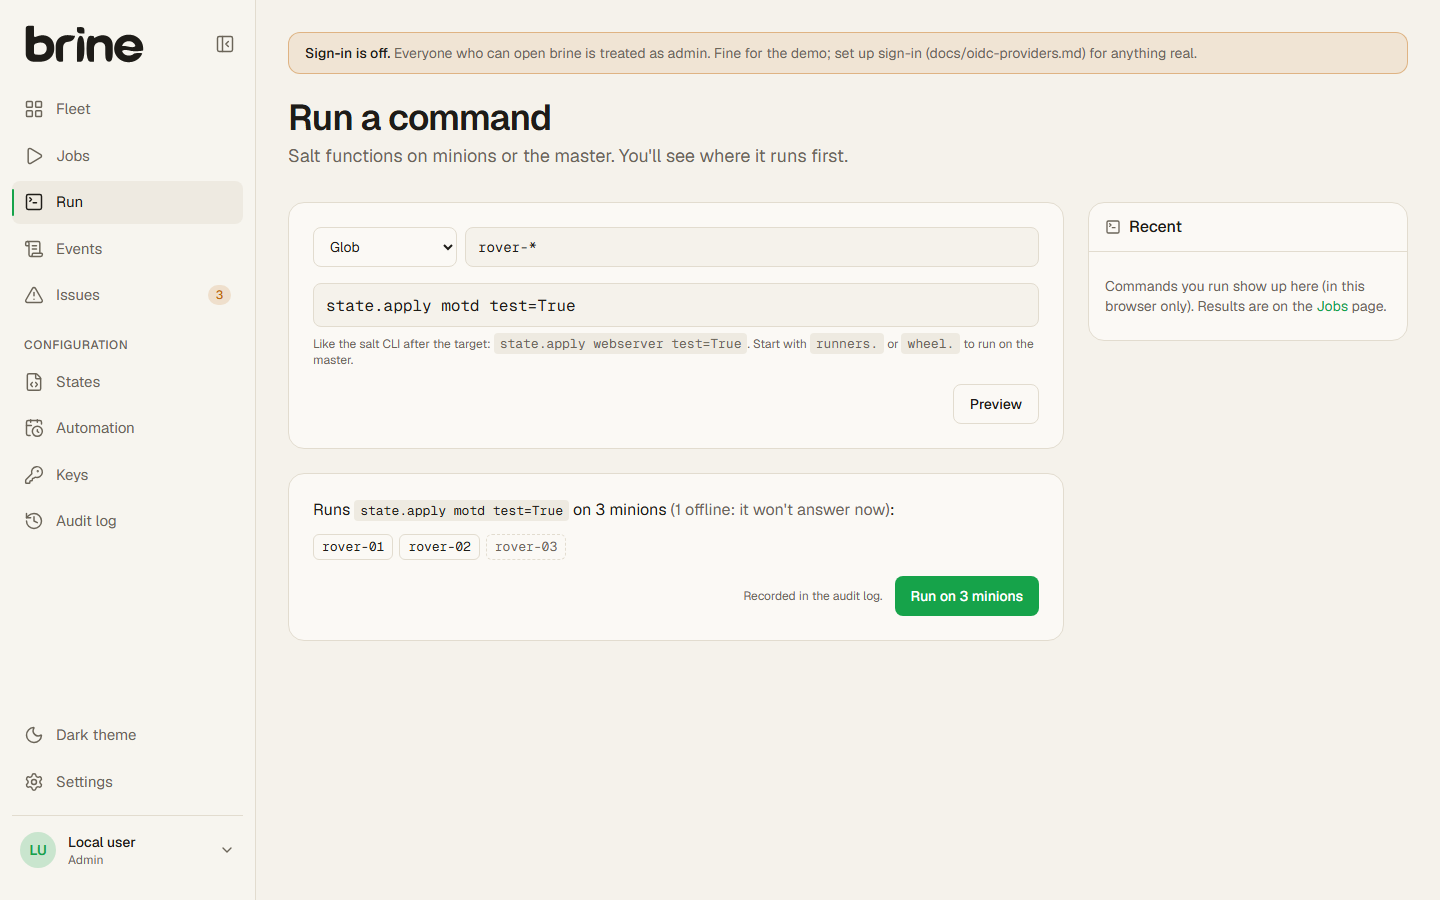
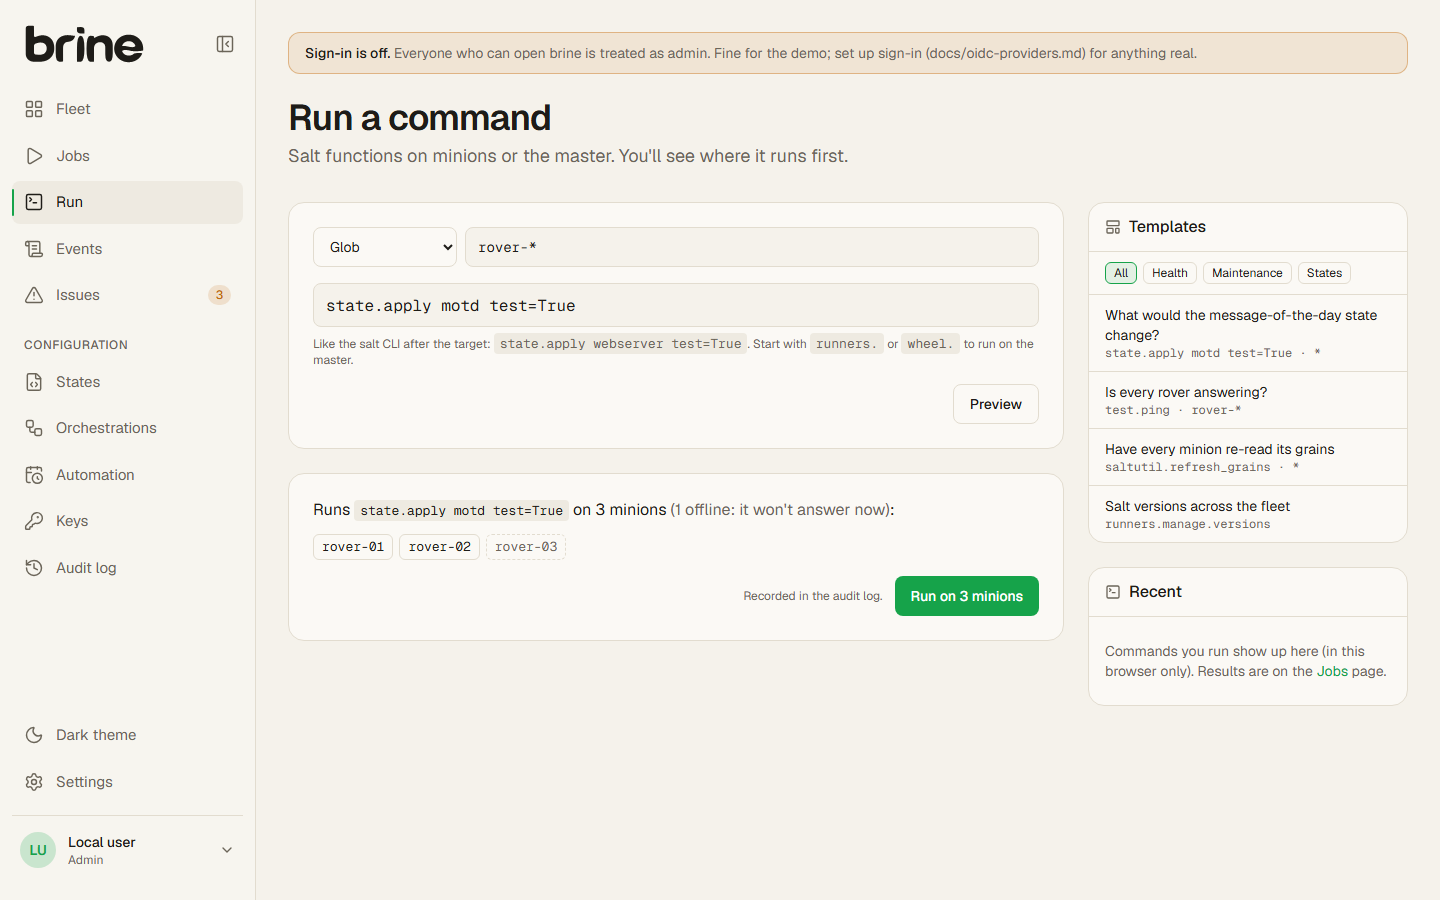
Docs: templates, orchestrations, salt-api's rough edges; screenshots
- README: Orchestrations section and screenshot; templates on the Run page; status.
- ACL guide: state.orchestrate_show_sls (read) and state.orchestrate (run); config.values now
  also yields saltgui_templates. config.example.yaml: a template.
- salt-versions.md: what brine does about expiring sessions, the event stream, and bare 500s,
  and that CI tests each line's latest release.
- Decisions 17 (few requests in flight, safe retries) and 18 (orchestrations belong to the
  person); backlog and SaltGUI parity updated.

diff --git a/README.md b/README.md
@@ -9,7 +9,7 @@
 
 ---
 
-> **Status: early development.** Every SaltGUI view has a brine page, and commands and key management work, all behind OIDC sign-in and roles. Still to come: SaltGUI's templates, orchestrations and job re-run/kill, and packaging (a Docker image and a quickstart). Follow [docs/backlog.md](docs/backlog.md) for progress.
+> **Status: early development.** Every SaltGUI view has a brine page, and commands, templates, orchestrations and key management work, all behind OIDC sign-in and roles. Still to come: job re-run/kill, and packaging (a Docker image and a quickstart). Follow [docs/backlog.md](docs/backlog.md) for progress.
 
 brine plugs into an existing **salt-master + salt-api** and gives your team a clean, fast view of the fleet:
 
@@ -105,7 +105,8 @@ SaltGUI's command box, with a safety catch. Type a target and a command the way 
 itself. brine first shows exactly which minions it reaches, and which of those are offline;
 running is a separate click, and the results land on the job page as they arrive. Who may run
 what is a per-role allowlist in brine's config, every run is in the audit log, and links like
-`/run?target=rover-*&command=test.ping` open already previewed.
+`/run?target=rover-*&command=test.ping` open already previewed. Templates (brine's own, or
+SaltGUI's `saltgui_templates` from the master config, unchanged) fill it in with one click.
 
 <picture>
   <source media="(prefers-color-scheme: dark)" srcset="docs/assets/screenshots/run-dark.png">
@@ -133,6 +134,18 @@ What the master tells each minion to be: which states the top file assigns to wh
 <picture>
   <source media="(prefers-color-scheme: dark)" srcset="docs/assets/screenshots/states-dark.png">
   <img alt="States: motd and dock states with the minions they apply to" src="docs/assets/screenshots/states-light.png">
+</picture>
+
+### Orchestrations
+
+Every orchestration on the master, step by step: what each step does, on which minions, and what
+it waits for. Test and Run go through the Run page, so they're previewed, confirmed and audited
+like any command. The run, and the job each step starts, are recorded under whoever ran it, and
+the orchestration's job page links every step to its minions' results.
+
+<picture>
+  <source media="(prefers-color-scheme: dark)" srcset="docs/assets/screenshots/orchestrations-dark.png">
+  <img alt="Orchestrations: orch.health and orch.rollout with their steps, targets and requisites" src="docs/assets/screenshots/orchestrations-light.png">
 </picture>
 
 ### Automation

diff --git a/docs/salt-versions.md b/docs/salt-versions.md
@@ -2,8 +2,9 @@
 
 **brine aims to work with every Salt release the Salt Project still supports, and proves it in
 CI.** Each push runs the end-to-end test against a real salt-master, salt-api and minions
-installed from the official packages, once per release: currently **3006, 3007 and 3008**. A new
-major release is added when it ships; one is dropped from CI when Salt stops supporting it.
+installed from the official packages, once per release line (its latest release): currently
+**3006, 3007 and 3008**. A new major release is added when it ships; one is dropped from CI
+when Salt stops supporting it.
 
 Salt 3005 and older aren't tested. brine's read-only views use functions that existed back then,
 so they may well work, but those releases no longer get security fixes, and upgrading is the
@@ -20,6 +21,20 @@ better fix.
   `presence_events` when the master sends them and polls otherwise. Minions the master's presence
   detection can't see are flagged, not called offline. Write actions are offered only when the
   service account's ACL (read at login) allows them.
+
+## What brine does about salt-api's rough edges
+
+- **Sessions that end early.** SaltGUI's docs report Salt 3008.0 and 3008.1 ending its sessions
+  after about a minute. When salt-api stops accepting brine's token, brine logs in again, once,
+  and retries the request, so people don't see it.
+- **The event stream failing.** SaltGUI's docs report the event API broken on 3008.2. brine's
+  backend reconnects the stream with backoff and re-syncs what it may have missed; the browser
+  only ever talks to brine.
+- CI runs the latest release of each line (3008.3 today), not those older 3008 releases, so
+  brine is built for both problems but hasn't been tested against them.
+- **Bare 500s under load.** salt-api now and then fails a request when several arrive together.
+  brine keeps at most four in flight and retries the ones that are safe to repeat
+  ([decision 17](decisions.md)).
 
 ## Version differences worth knowing
 

diff --git a/docs/permissions-and-salt-acl.md b/docs/permissions-and-salt-acl.md
@@ -59,8 +59,9 @@ external_auth:
         - manage.status      # presence polling (method: ping)
         - manage.versions
         - cache.grains       # cached grains, nodegroup membership, presence diagnostics
+        - state.orchestrate_show_sls  # Orchestrations: each one's steps (renders, runs nothing)
       - '@wheel':
-        - config.values      # reactors and nodegroups (only those keys leave brine's server)
+        - config.values      # reactors, nodegroups, saltgui_templates (only these are used)
         - key.finger         # key fingerprints
         - key.list_all       # key states
         - minions.connected  # presence polling (method: connected)
@@ -82,8 +83,9 @@ The demo fleet uses this list plus key management (below):
 
 ### Things to know
 
-- `config.values` returns the whole master config to brine's server. brine keeps only
-  `reactor` and `nodegroups` and never sends the rest to browsers or stores it.
+- `config.values` returns the whole master config to brine's server. brine uses only
+  `reactor`, `nodegroups` and `saltgui_templates`, and never sends the rest to browsers or
+  stores it.
 - `file_roots.read` lets brine read files under your `file_roots` (states, templates). Keep
   secrets in pillar, not in state files.
 
@@ -122,6 +124,7 @@ team should be able to run through brine, for example:
         - service.restart
       - '@runner':
         - manage.*
+        - state.orchestrate      # Orchestrations › Run (and Test)
 ```
 
 Then decide who in brine may run which of them, under `commands:` in brine's config:

diff --git a/docs/decisions.md b/docs/decisions.md
@@ -140,3 +140,18 @@ written the job down, or while brine was restarting.
 
 Words after the function are sent as typed, so Salt parses `key=value` and YAML values exactly as
 the salt CLI does, rather than brine guessing.
+
+## 17. salt-api is called a few requests at a time, and safe calls are retried
+
+salt-api (rest_cherrypy) sometimes answers a request with a bare 500, "An unexpected error
+occurred", when several arrive at once: on the demo, about 1 in 30 at four in flight, none at
+two. brine keeps at most four requests in flight and retries a 500 twice for calls that are safe
+to repeat (reads, and key changes, which match exact IDs). Starting a job and a person's runner
+are never retried: the 500 may come after Salt started it, and it mustn't run twice.
+
+## 18. Orchestrations belong to the person who ran them
+
+Salt records a runner by the account that called salt-api (brine's), and the jobs an
+orchestration's steps start as "salt". brine asks for the runner's jid (`full_return`), records
+the run under the person, and imports each step's job from the job cache under them too. The
+orchestration's job page lists its steps like a state run, each linked to the job it started.

diff --git a/docs/saltgui-parity.md b/docs/saltgui-parity.md
@@ -48,8 +48,8 @@ actions (phase 5) and sign-in (phase 2) are next.
 | Options + `/stats` | Settings | 3 | Active config, presence method, salt-api health |
 | Command box | Run (sidebar), Run command on Fleet and minion pages | 5 ✅ | Exact target preview, then a click to run; per-role allowlist; audited; results on the job page |
 | Grains / beacons / schedules / mine actions | Minion page actions | 5 | |
-| Templates (`saltgui_templates`) | Run command › Templates | 5 | |
-| Orchestrations | Run command › Orchestrations | 5 | |
+| Templates (`saltgui_templates`) | Run › Templates | 5 ✅ | Reads SaltGUI's own `saltgui_templates` from the master, plus `templates:` in brine's config; categories; one click fills in and previews |
+| Orchestrations | Orchestrations page | 5 ✅ | Steps in run order (target, what, requisites); Test / Run go through the Run page; the run and every step's job are recorded under the person |
 | Search (regex / invert / case), sort, row selection | Tables | 3 | |
 | Dark mode (system only) | Light / dark with manual toggle | 3 | |
 | Keyboard shortcuts | | Later | |

diff --git a/docs/backlog.md b/docs/backlog.md
@@ -80,7 +80,12 @@ Follow-ups found along the way:
 - [ ] Function help in the command box (`sys.doc`) and autocomplete
 - [ ] Long runners (orchestrations) as async jobs with live progress (`runner_async`), instead of waiting on the request
 - [ ] Grains, beacons, schedules, mine actions; job re-run / terminate / kill
-- [ ] Templates, orchestrations
+- [x] Templates: SaltGUI's `saltgui_templates` from the master and `templates:` in brine's config, by category, on the Run page
+- [x] Orchestrations page: every orchestration SLS with its steps; Test / Run through the Run page; the runner and each step's job recorded under the person (Salt runs steps as "salt")
+- [x] Runner commands recorded as jobs (`full_return` gives their jid)
+- [x] salt-api returns bare 500s under concurrent requests: at most 4 in flight, safe calls retried
+- [ ] Templates with parameters (fill-in fields), and SaltGUI's single-key template shortcuts
+- [ ] Orchestrations: cache the listing for big file roots; other saltenvs
 
 ## Later
 
